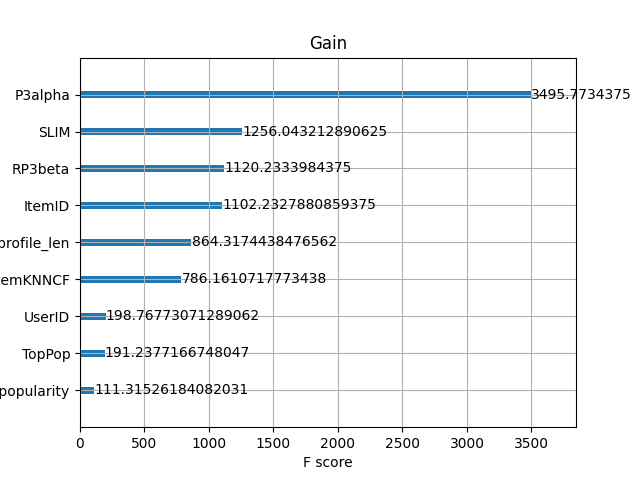
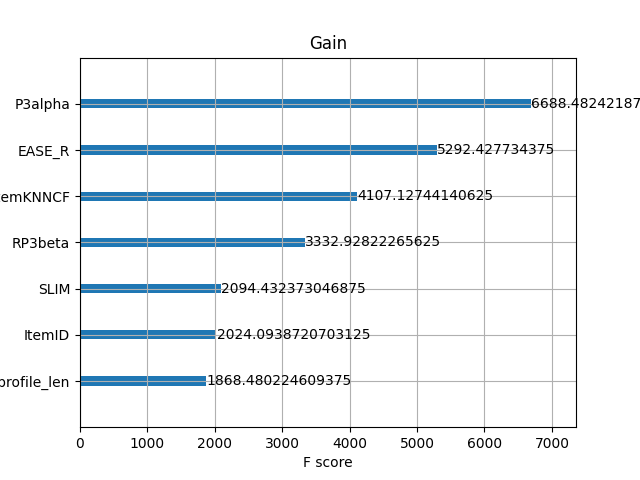
feat(classifier): add tuning

diff --git a/challenge/XGBoost/classifier.py b/challenge/XGBoost/classifier.py
@@ -2,10 +2,12 @@ import numpy as np
 import pandas as pd
 import scipy.sparse as sps
 import xgboost as xgb
-from sklearn.metrics import accuracy_score
+from sklearn.metrics import accuracy_score, precision_score, recall_score, f1_score
 from sklearn.metrics import classification_report
 from sklearn.model_selection import train_test_split, GridSearchCV
+from sklearn.tree import DecisionTreeClassifier
 from tqdm import tqdm
+from xgboost import plot_importance
 
 from Data_manager.split_functions.split_train_validation_random_holdout import \
     split_train_in_two_percentage_global_sample
@@ -15,15 +17,19 @@ from Recommenders.Hybrid.GeneralizedLinearHybridRecommender import GeneralizedLi
 from Recommenders.KNN import ItemKNNCFRecommender
 from Recommenders.NonPersonalizedRecommender import TopPop
 from Recommenders.SLIM import SLIMElasticNetRecommender
+from Recommenders.EASE_R import EASE_R_Recommender
+from Recommenders.MatrixFactorization import IALSRecommender
 from challenge.utils.functions import read_data
 
 
 def model_training(X, y, n_estimators, max_depth, gamma, reg_lambda, reg_alpha, booster, learning_rate=0.01):
-    ##### Step 1 - Create training and testing samples
     X_train, X_test, y_train, y_test = train_test_split(X, y, test_size=0.2, random_state=42)
+    X_train, X_val, y_train, y_val = train_test_split(X_train, y_train, test_size=0.2, random_state=42)
 
-    ##### Step 2 - Set model and its parameters
     model = xgb.XGBClassifier(use_label_encoder=False,
+                              enable_categorical=True,
+                              eval_metric='logloss',
+                              early_stopping_rounds=10,
                               booster=booster,
                               n_estimators=n_estimators,
                               max_depth=max_depth,
@@ -31,23 +37,21 @@ def model_training(X, y, n_estimators, max_depth, gamma, reg_lambda, reg_alpha, 
                               reg_lambda=reg_lambda,
                               learning_rate=learning_rate,
                               reg_alpha=reg_alpha,
-                              enable_categorical=True,
                               )
 
-    # Fit the model
-    clf = model.fit(X_train, y_train)
+    eval_set = [(X_val, y_val)]
+    clf = model.fit(
+        X_train, y_train,
+        eval_set=eval_set,
+        verbose=True
+    )
 
-    ##### Step 3
-    # Predict class labels on training data
     pred_labels_tr = model.predict(X_train)
-    # Predict class labels on a test data
     pred_labels_te = model.predict(X_test)
 
     print("Training predictions: ", pred_labels_tr)
     print("Testing predictions: ", pred_labels_te)
 
-    ##### Step 4 - Model summary
-    # Basic info about the model
     print('*************** Tree Summary ***************')
     print('No. of classes: ', clf.n_classes_)
     print('Classes: ', clf.classes_)
@@ -59,7 +63,6 @@ def model_training(X, y, n_estimators, max_depth, gamma, reg_lambda, reg_alpha, 
     print('*************** Evaluation on Test Data ***************')
     score_te = model.score(X_test, y_test)
     print('Accuracy Score: ', score_te)
-    # Look at classification report to evaluate the model
     print(classification_report(y_test, pred_labels_te, zero_division=1))
     print('--------------------------------------------------------')
     print("")
@@ -67,7 +70,6 @@ def model_training(X, y, n_estimators, max_depth, gamma, reg_lambda, reg_alpha, 
     print('*************** Evaluation on Training Data ***************')
     score_tr = model.score(X_train, y_train)
     print('Accuracy Score: ', score_tr)
-    # Look at classification report to evaluate the model
     print(classification_report(y_train, pred_labels_tr, zero_division=1))
     print('--------------------------------------------------------')
 
@@ -76,17 +78,17 @@ def model_training(X, y, n_estimators, max_depth, gamma, reg_lambda, reg_alpha, 
 
 def fine_tune_xgboost(X, y):
     param_grid = {
-        'n_estimators': [60],  # da aumentare
-        'learning_rate': [1e-1],  # da diminuire
-        'max_depth': [3],  # da diminuire
-        'gamma': [0.1],
-        'reg_lambda': [1e-4],  # da diminuire
-        'reg_alpha': [5],  # da aumentare
+        'n_estimators': [80, 100, 125],  # da aumentare
+        'learning_rate': [1e-4, 1e-3, 1e-2, 1e-1],  # da diminuire
+        'max_depth': [1, 3, 5],  # da diminuire
+        'gamma': [0.1, 0.5],
+        'reg_lambda': [1e-7, 1e-6, 1e-5],  # da diminuire
+        'reg_alpha': [6, 7, 8],  # da aumentare
         'booster': ['gbtree'],
     }
 
     xgb_clf = xgb.XGBClassifier(use_label_encoder=False, enable_categorical=True)
-    grid_search = GridSearchCV(estimator=xgb_clf, param_grid=param_grid, scoring='accuracy', cv=5)
+    grid_search = GridSearchCV(estimator=xgb_clf, param_grid=param_grid, scoring='accuracy', cv=10)
     grid_search.fit(X, y)
 
     print("Parametri ottimali della Grid Search:", grid_search.best_params_)
@@ -152,14 +154,14 @@ def __main__():
 
     n_users, n_items = URM_all.shape
 
-    item_recommender = ItemKNNCFRecommender.ItemKNNCFRecommender(URM_all)
+    item_recommender = ItemKNNCFRecommender.ItemKNNCFRecommender(URM_train)
     item_recommender.fit(topK=9, shrink=19, similarity='tversky', tversky_alpha=0.036424892090848766,
                          tversky_beta=0.9961018325655608)
 
     results, _ = evaluator.evaluateRecommender(item_recommender)
     print("ItemKNNCFRecommender MAP: {}".format(results.loc[10]["MAP"]))
 
-    rp3beta = RP3betaRecommender.RP3betaRecommender(URM_all)
+    rp3beta = RP3betaRecommender.RP3betaRecommender(URM_train)
     rp3beta.fit(topK=30, alpha=0.26362900188025656, beta=0.17133265585189086, min_rating=0.2588031389774553,
                 implicit=True, normalize_similarity=True)
     RP3_Wsparse = rp3beta.W_sparse
@@ -178,7 +180,7 @@ def __main__():
     delta = 4.3291270788055805
     epsilon = 4.657898008053695
 
-    hybrid = GeneralizedLinearHybridRecommender(URM_all, recommenders=recommenders)
+    hybrid = GeneralizedLinearHybridRecommender(URM_train, recommenders=recommenders)
     hybrid.fit(gamma=gamma, delta=delta, epsilon=epsilon)
 
     results, _ = evaluator.evaluateRecommender(hybrid)
@@ -216,25 +218,42 @@ def __main__():
     training_dataframe["Label"] = training_dataframe["Exist"] == "both"
     training_dataframe.drop(columns=['Exist'], inplace=True)
 
-    topPop = TopPop(URM_all)
+    topPop = TopPop(URM_train)
     topPop.fit()
 
     results, _ = evaluator.evaluateRecommender(topPop)
     print("TopPop MAP: {}".format(results.loc[10]["MAP"]))
 
-    p3alpha = P3alphaRecommender.P3alphaRecommender(URM_all)
+    p3alpha = P3alphaRecommender.P3alphaRecommender(URM_train)
     p3alpha.fit(topK=40, alpha=0.3119217553589628, min_rating=0.01, implicit=True,
                 normalize_similarity=True)
 
     results, _ = evaluator.evaluateRecommender(p3alpha)
     print("P3alphaRecommender MAP: {}".format(results.loc[10]["MAP"]))
 
+    EASE_R = EASE_R_Recommender.EASE_R_Recommender(URM_train)
+    EASE_R.fit(topK=59, l2_norm=29.792347118106623, normalize_matrix=False)
+    EASE_R_Wsparse = sps.csr_matrix(EASE_R.W_sparse)
+
+    results, _ = evaluator.evaluateRecommender(EASE_R)
+    print("EASE_R_Recommender MAP: {}".format(results.loc[10]["MAP"]))
+
+    ials_recommender = IALSRecommender.IALSRecommender(URM_train)
+    ials_recommender.fit(epochs=10, num_factors=92, confidence_scaling="linear", alpha=2.5431444656816597,
+                         epsilon=0.035779451402656745,
+                         reg=1.5, init_mean=0.0, init_std=0.1)
+
+    results, _ = evaluator.evaluateRecommender(ials_recommender)
+    print("IALSRecommender MAP: {}".format(results.loc[10]["MAP"]))
+
     other_algorithms = {
         "TopPop": topPop,
         "ItemKNNCF": item_recommender,
         "P3alpha": p3alpha,
         "RP3beta": rp3beta,
-        "SLIM": SLIM_recommender
+        "SLIM": SLIM_recommender,
+        "EASE_R": EASE_R,
+        "IALS": ials_recommender
     }
 
     training_dataframe = training_dataframe.set_index('UserID')
@@ -261,17 +280,22 @@ def __main__():
     X["UserID"] = X["UserID"].astype("category")
     X["ItemID"] = X["ItemID"].astype("category")
 
-    '''xgboost_grid_search = fine_tune_xgboost(X, y)
+    xgboost_grid_search = fine_tune_xgboost(X, y)
 
     X_train, X_test, y_train, y_test = train_test_split(X, y, test_size=0.2, random_state=42)
+    X_train, X_val, y_train, y_val = train_test_split(X_train, y_train, test_size=0.2, random_state=42)
 
     dTree_clf = DecisionTreeClassifier()
 
     dTree_clf.fit(X_train, y_train)
     y_pred2 = dTree_clf.predict(X_test)
-    print("Accuracy before boosting:", accuracy_score(y_test, y_pred2))
 
-    clf, X_test, y_test = model_training(X_train, y_train, **xgboost_grid_search.best_params_)
+    print("Accuracy before boosting:", accuracy_score(y_test, y_pred2))
+    print("Precision before boosting:", precision_score(y_test, y_pred2))
+    print("Recall before boosting:", recall_score(y_test, y_pred2))
+    print("F1 before boosting:", f1_score(y_test, y_pred2))
+
+    clf, X_test, y_test = model_training(X, y, **xgboost_grid_search.best_params_)
 
     plot1 = plot_importance(clf, importance_type='gain', title='Gain')
     plot2 = plot_importance(clf, importance_type='cover', title='Cover')
@@ -279,22 +303,34 @@ def __main__():
 
     plot1.figure.savefig('gain.png')
     plot2.figure.savefig('cover.png')
-    plot3.figure.savefig('weight.png')'''
+    plot3.figure.savefig('weight.png')
 
-    model = xgb.XGBClassifier(use_label_encoder=False, booster='gbtree', n_estimators=60, max_depth=3, gamma=0.1,
-                              reg_lambda=1e-4, learning_rate=1e-1, reg_alpha=5, enable_categorical=True)
+    model = xgb.XGBClassifier(use_label_encoder=False,
+                              enable_categorical=True,
+                              eval_metric='logloss',
+                              early_stopping_rounds=10,
+                              **xgboost_grid_search.best_params_
+                              )
 
-    all_hybrid = model.fit(X, y)
-    predictions = model.predict(X)
+    eval_set = [(X_val, y_val)]
+    hybrid_all = model.fit(
+        X_train, y_train,
+        eval_set=eval_set,
+        verbose=True
+    )
+    predictions = model.predict(X_test)
 
-    print("Accuracy after boosting:", accuracy_score(y, predictions))
+    print("Accuracy after boosting:", accuracy_score(y_test, predictions))
+    print("Precision after boosting:", precision_score(y_test, predictions))
+    print("Recall after boosting:", recall_score(y_test, predictions))
+    print("F1 after boosting:", f1_score(y_test, predictions))
 
-    training_dataframe["Recommendation"] = pd.Series(predictions, index=training_dataframe.index)
+    '''training_dataframe["Recommendation"] = pd.Series(predictions, index=training_dataframe.index)
     reranked_df = training_dataframe.sort_values(by=['UserID', 'Recommendation'], ascending=[True, False])
 
     write_recommendations(item_recommender, submission_file_path, users_list, cutoff=cutoff_real)
     write_reranked_recommendations(submission_file_path_reranked, users_list, cutoff=cutoff_real,
-                                   reranked_df=reranked_df)
+                                   reranked_df=reranked_df)'''
 
 
 if __name__ == '__main__':
